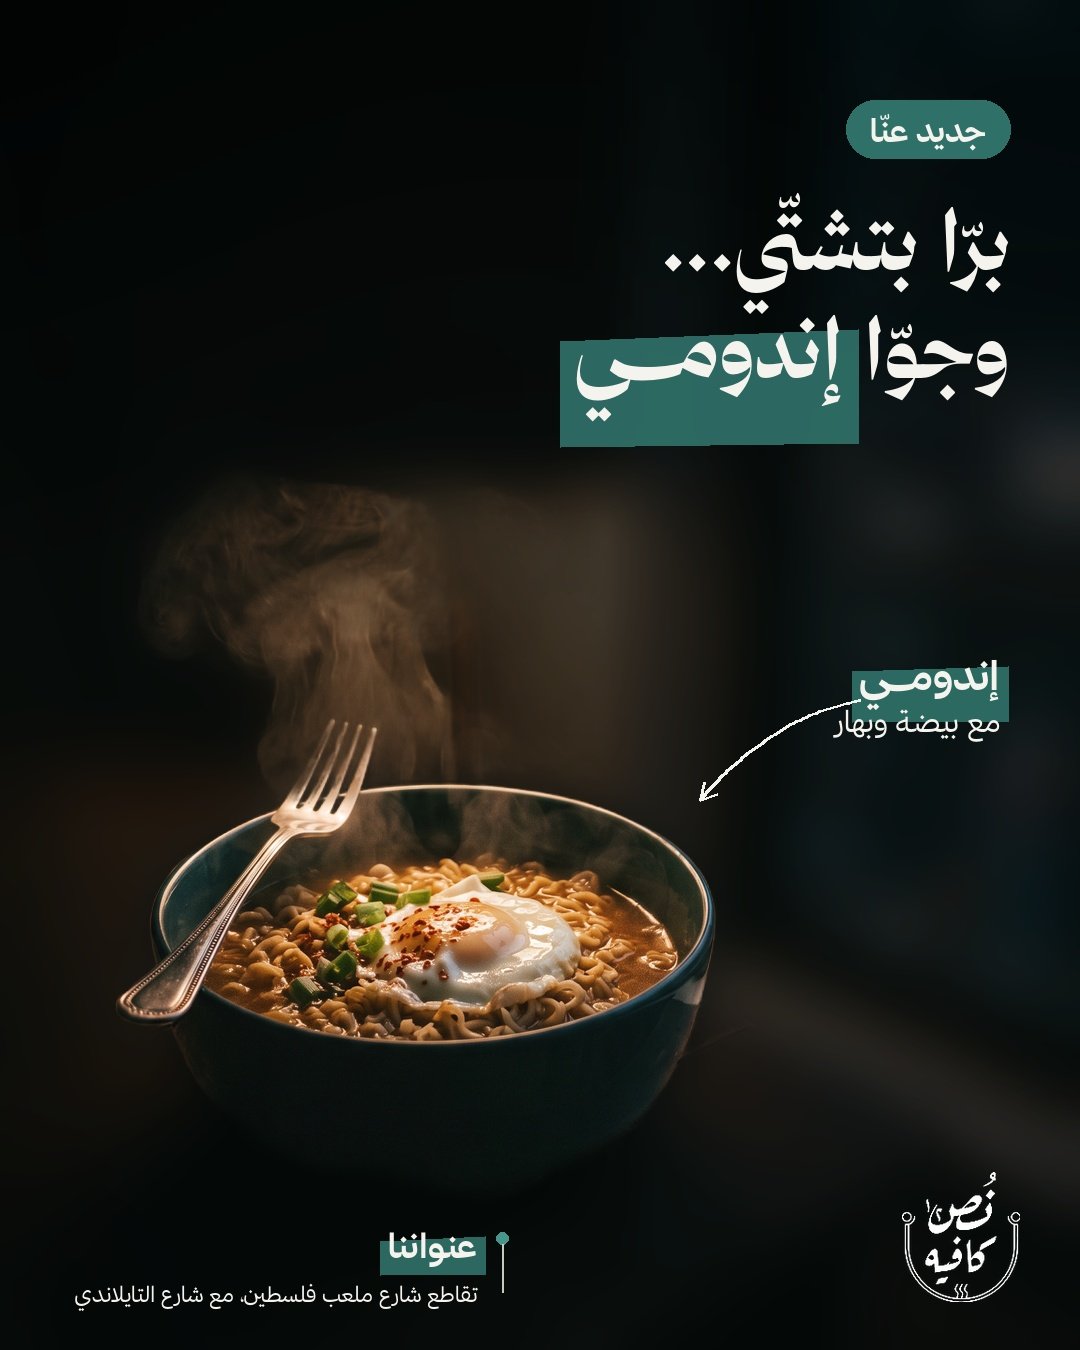
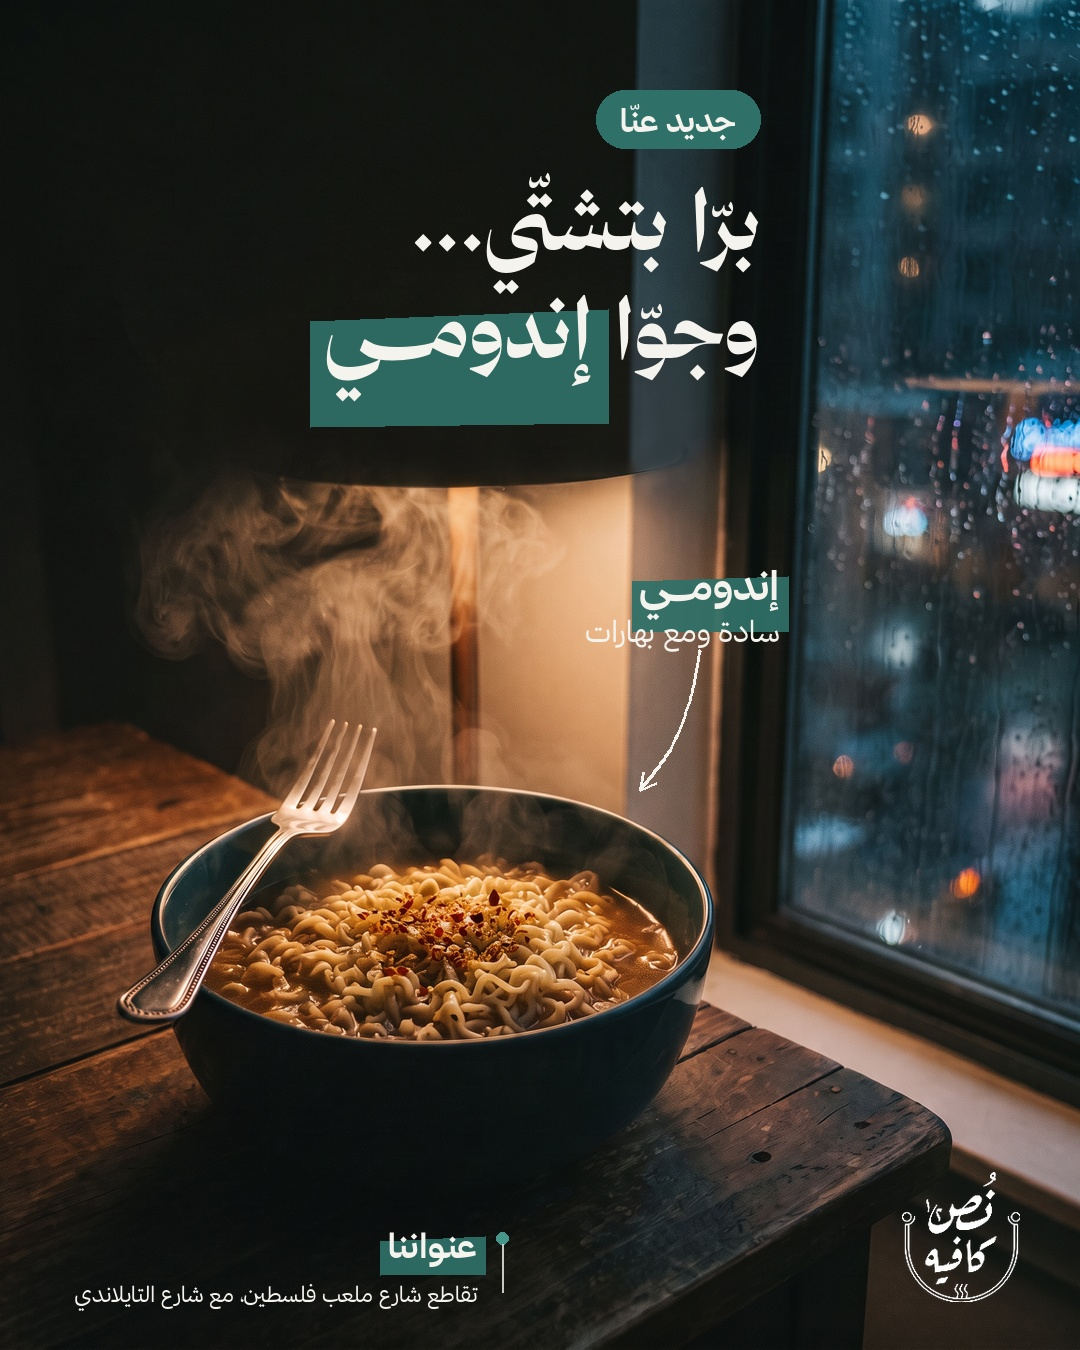
Indomie posts: plain noodles with spices, keep scene details, no text shadow
Claude-Session: https://claude.ai/code/session_015dwSS3fWoFBppmEP84oyNx

diff --git a/tools/example_indomie_v2.py b/tools/example_indomie_v2.py
@@ -1,0 +1,19 @@
+import os; exec(open(os.path.join(os.path.dirname(os.path.abspath(__file__)),'example_indomie.py')).read().split("out=[]")[0])
+def load(n): return cover(Image.open(S+f'indomie/j{n}.png').convert('RGB')).convert('RGBA')
+out=[]
+im=load(1); pill(im,760,90); head(im,'برّا بتشتّي...','وجوّا ','إندومـــي',XR=760,y=250)
+lab(im,780,600,'إندومـــي','سادة ومع بهارات',[(700,650),(690,700),(670,750),(640,790)])
+footer(im,ImageDraw.Draw(im)); out.append(im)
+im=load(2); pill(im,1010,90)
+f=DB(68); d=ImageDraw.Draw(im)
+text(d,520,150,'الطعم اللي',f); text(d,520,235,'كبرنا عليه...',f)
+w=tw(d,'صار ',f); hl(im,d,520-w,325,'عنّـــا',f,pad=(14,3),skew=7); d=ImageDraw.Draw(im); text(d,520,325,'صار ',f); text(d,520-w,325,'عنّـــا',f)
+lab(im,330,880,'إندومـــي','سادة ومع بهارات',[(345,840),(390,810),(440,820),(468,850)])
+footer(im,ImageDraw.Draw(im)); out.append(im)
+im=load(3); pill(im,1010,100); head(im,'بردانين؟','دفّوا حالكم ','بإندومـــي',y=280,f=DB(84),gap=110)
+lab(im,330,760,'إندومـــي','سخنة وبتدفّي',[(300,800),(330,850),(400,880),(462,885)])
+footer(im,ImageDraw.Draw(im)); out.append(im)
+for i,im in enumerate(out): im.convert('RGB').save(S+f'out/indomie_{i+1}.jpg',quality=95)
+sh=Image.new('RGB',(540*3,675))
+for i,im in enumerate(out): sh.paste(im.convert('RGB').resize((540,675)),(i*540,0))
+sh.save(S+'out/indomie_sheet.jpg'); print('ok')

diff --git a/CLAUDE.md b/CLAUDE.md
@@ -43,4 +43,5 @@ The owner wants generation fully hooked up so Claude can work alone.
 - **No shadow or glow behind text.** Text sits on a darkened or blurred background instead.
 - Keep text near the top: headline top-right, a tag pill above it. Don't push text to the bottom.
 - Tidy, consistent layout: pill, then 2-line headline, then product label with arrow, then footer.
-- **Don't show too much of the place:** blur and darken the background around the product (rembg mask plus blur). See `tools/example_indomie.py`.
+- **Keep the place details.** The owner tried a blurred background and reverted it; they prefer the scene visible. Frame the scene so the top is calm for the text.
+- **Indomie is served plain with spices only.** No egg, cheese or vegetables.
